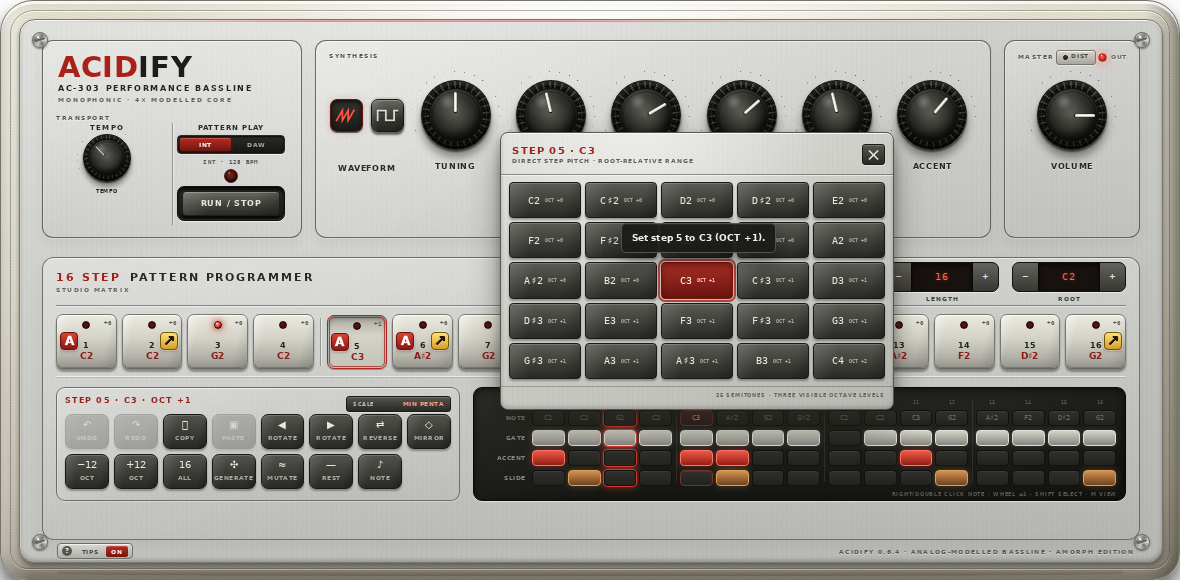
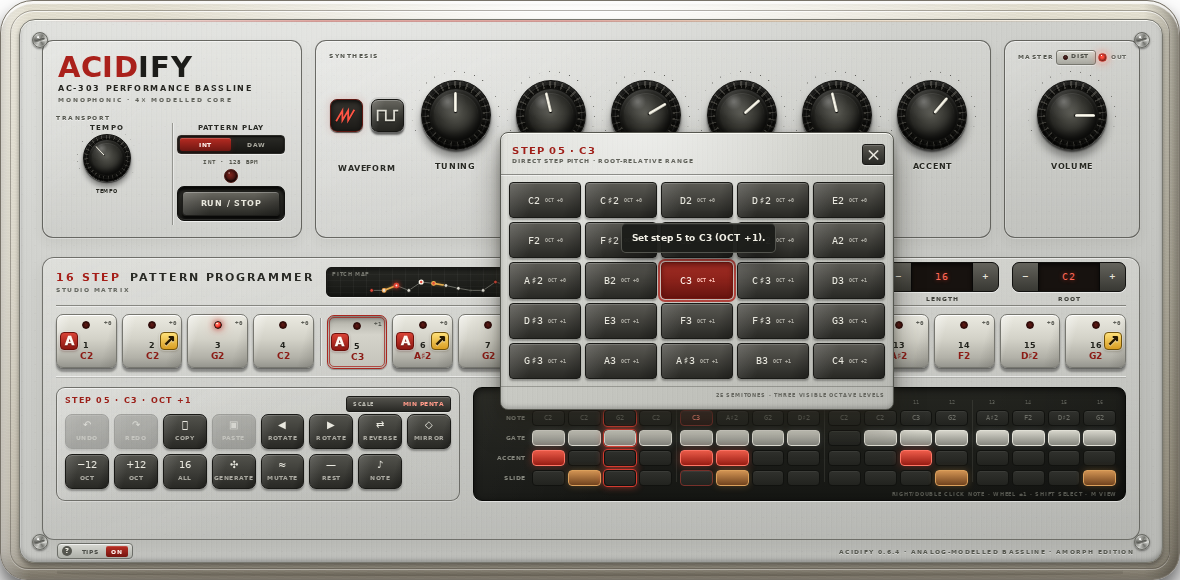
Add live bassline pitch map

Changed region(s): [[0.2746, 0.4345, 0.4271, 0.5276]]

diff --git a/ACIDIFYUI.js b/ACIDIFYUI.js
@@ -329,6 +329,7 @@ class AcidifyPatchView extends HTMLElement {
     this._wirePitchMenu();
     this._wireDistortion();
     this._wireTooltips();
+    this._renderStepStrip();
     this._renderStepEditor();
     this._renderStudio();
 
@@ -1498,6 +1499,54 @@ class AcidifyPatchView extends HTMLElement {
       node.setAttribute("aria-label", `Step ${index + 1}, ${absoluteNote}, ${this._octaveLabel(pitch)}, ${states}; click to edit, wheel changes semitone, right-click or double-click chooses a note`);
       node.dataset.tooltip = `Step ${index + 1}: ${absoluteNote}, ${this._octaveLabel(pitch)}, ${states}. Wheel changes one semitone; right-click or double-click opens direct note selection.`;
     });
+    this._renderBassline();
+  }
+
+  _renderBassline() {
+    const path = this.querySelector(".bassline-path");
+    const slidePath = this.querySelector(".bassline-slide-path");
+    const nodes = [...this.querySelectorAll(".bassline-node")];
+    if (!path || !slidePath || nodes.length !== 16) return;
+
+    const root = Math.round(this._values.get("param12") ?? 36);
+    const points = Array.from({ length: 16 }, (_, index) => {
+      const pitch = this._stepPitch(index);
+      return {
+        index,
+        pitch,
+        flags: this._stepFlags(index),
+        x: 35 + index * (199 / 15),
+        y: 24 - pitch * (18 / 24),
+      };
+    });
+    path.setAttribute("d", points.map((point, index) =>
+      `${index === 0 ? "M" : "L"} ${point.x.toFixed(2)} ${point.y.toFixed(2)}`
+    ).join(" "));
+    slidePath.setAttribute("d", points.slice(0, -1)
+      .filter(point => (point.flags & 4) !== 0)
+      .map(point => {
+        const next = points[point.index + 1];
+        return `M ${point.x.toFixed(2)} ${point.y.toFixed(2)} L ${next.x.toFixed(2)} ${next.y.toFixed(2)}`;
+      }).join(" "));
+
+    nodes.forEach((node, index) => {
+      const point = points[index];
+      const absoluteNote = noteName(root + point.pitch).replace("#", "♯");
+      node.setAttribute("cx", point.x.toFixed(2));
+      node.setAttribute("cy", point.y.toFixed(2));
+      node.dataset.pitch = `${point.pitch}`;
+      node.classList.toggle("rest", (point.flags & 1) === 0);
+      node.classList.toggle("accented", (point.flags & 2) !== 0);
+      node.classList.toggle("sliding", (point.flags & 4) !== 0);
+      node.classList.toggle("selected", this._selectedSteps.has(index));
+      node.classList.toggle("playing", index === this._playingStep);
+      node.setAttribute("aria-label", `Step ${index + 1}, ${absoluteNote}`);
+    });
+
+    const visual = this.querySelector(".bassline-visual");
+    if (visual) {
+      visual.dataset.tooltip = "Live pitch contour for all 16 steps. Red nodes are accented, amber links are slides, dim nodes are rests, and the bright ring follows playback.";
+    }
   }
 
   _renderStepEditor() {
@@ -1633,6 +1682,9 @@ class AcidifyPatchView extends HTMLElement {
         aria-checked="false">
         <strong>--</strong><small>OCT +${Math.floor(pitch / 12)}</small>
       </button>`).join("");
+    const basslineNodes = Array.from({ length: 16 }, (_, index) =>
+      `<circle class="bassline-node" data-step="${index}" cx="${35 + index * (199 / 15)}" cy="24" r="2"></circle>`
+    ).join("");
 
     return `
 <style>
@@ -2001,8 +2053,44 @@ class AcidifyPatchView extends HTMLElement {
     grid-column: 1 / -1; margin-top: 3px;
     color: #66665f; font-size: 5.5px; line-height: 6px; letter-spacing: 1.45px;
   }
+  acidify-patch-view .bassline-visual {
+    position: relative; flex: 1 1 190px; min-width: 170px; max-width: 250px; height: 30px;
+    margin: 0 10px; overflow: hidden; border: 1px solid #171714; border-radius: 5px;
+    background:
+      linear-gradient(90deg, rgba(255,255,255,.035) 1px, transparent 1px),
+      linear-gradient(rgba(255,255,255,.025) 1px, transparent 1px),
+      linear-gradient(#292a26, #151613);
+    background-size: 13px 100%, 100% 6px, 100% 100%;
+    box-shadow: inset 0 2px 5px rgba(0,0,0,.62), 0 1px rgba(255,255,255,.5);
+  }
+  acidify-patch-view .bassline-visual > span {
+    position: absolute; z-index: 2; left: 5px; top: 4px;
+    color: #76776f; font-size: 4.5px; font-weight: 900; letter-spacing: .65px;
+  }
+  acidify-patch-view .bassline-visual svg { position: absolute; inset: 0; width: 100%; height: 100%; }
+  acidify-patch-view .bassline-path,
+  acidify-patch-view .bassline-slide-path {
+    fill: none; stroke-linecap: round; stroke-linejoin: round;
+  }
+  acidify-patch-view .bassline-path { stroke: #8c8d84; stroke-width: 1; opacity: .72; }
+  acidify-patch-view .bassline-slide-path {
+    stroke: #efb34e; stroke-width: 1.8; opacity: .92;
+    filter: drop-shadow(0 0 1.5px rgba(239,179,78,.45));
+  }
+  acidify-patch-view .bassline-node {
+    fill: #deddd3; stroke: #171714; stroke-width: .8;
+    transition: fill 90ms ease, stroke 90ms ease, opacity 90ms ease;
+  }
+  acidify-patch-view .bassline-node.rest { opacity: .28; fill: #66675f; }
+  acidify-patch-view .bassline-node.accented { fill: #e2493a; }
+  acidify-patch-view .bassline-node.sliding { stroke: #f0b34d; stroke-width: 1.2; }
+  acidify-patch-view .bassline-node.selected { stroke: #fff8ec; stroke-width: 1.45; }
+  acidify-patch-view .bassline-node.playing {
+    fill: #ffefe8; stroke: #ff4937; stroke-width: 2;
+    filter: drop-shadow(0 0 2.5px rgba(255,60,42,.85));
+  }
   acidify-patch-view .utility {
-    display: flex; align-items: center; gap: 13px; height: 100%;
+    flex: 0 0 auto; display: flex; align-items: center; gap: 13px; height: 100%;
   }
   acidify-patch-view .studio-toggle {
     position: relative; width: 140px; height: 29px; padding: 0 7px; cursor: pointer; border-radius: 5px;
@@ -3769,6 +3857,15 @@ class AcidifyPatchView extends HTMLElement {
         <div class="program-title">
           <b>16 STEP</b><span>PATTERN PROGRAMMER</span>
           <small class="program-context">CLASSIC PROGRAMMING</small>
+        </div>
+        <div class="bassline-visual" role="img" aria-label="Live 16-step bassline pitch contour"
+          data-tooltip="Live pitch contour for all 16 steps. Red nodes are accented, amber links are slides, dim nodes are rests, and the bright ring follows playback.">
+          <span>PITCH MAP</span>
+          <svg viewBox="0 0 240 30" aria-hidden="true" focusable="false">
+            <path class="bassline-path"></path>
+            <path class="bassline-slide-path"></path>
+            ${basslineNodes}
+          </svg>
         </div>
         <div class="utility">
           <button class="studio-toggle" aria-pressed="false" aria-label="Open Studio edit mode" aria-keyshortcuts="M"
